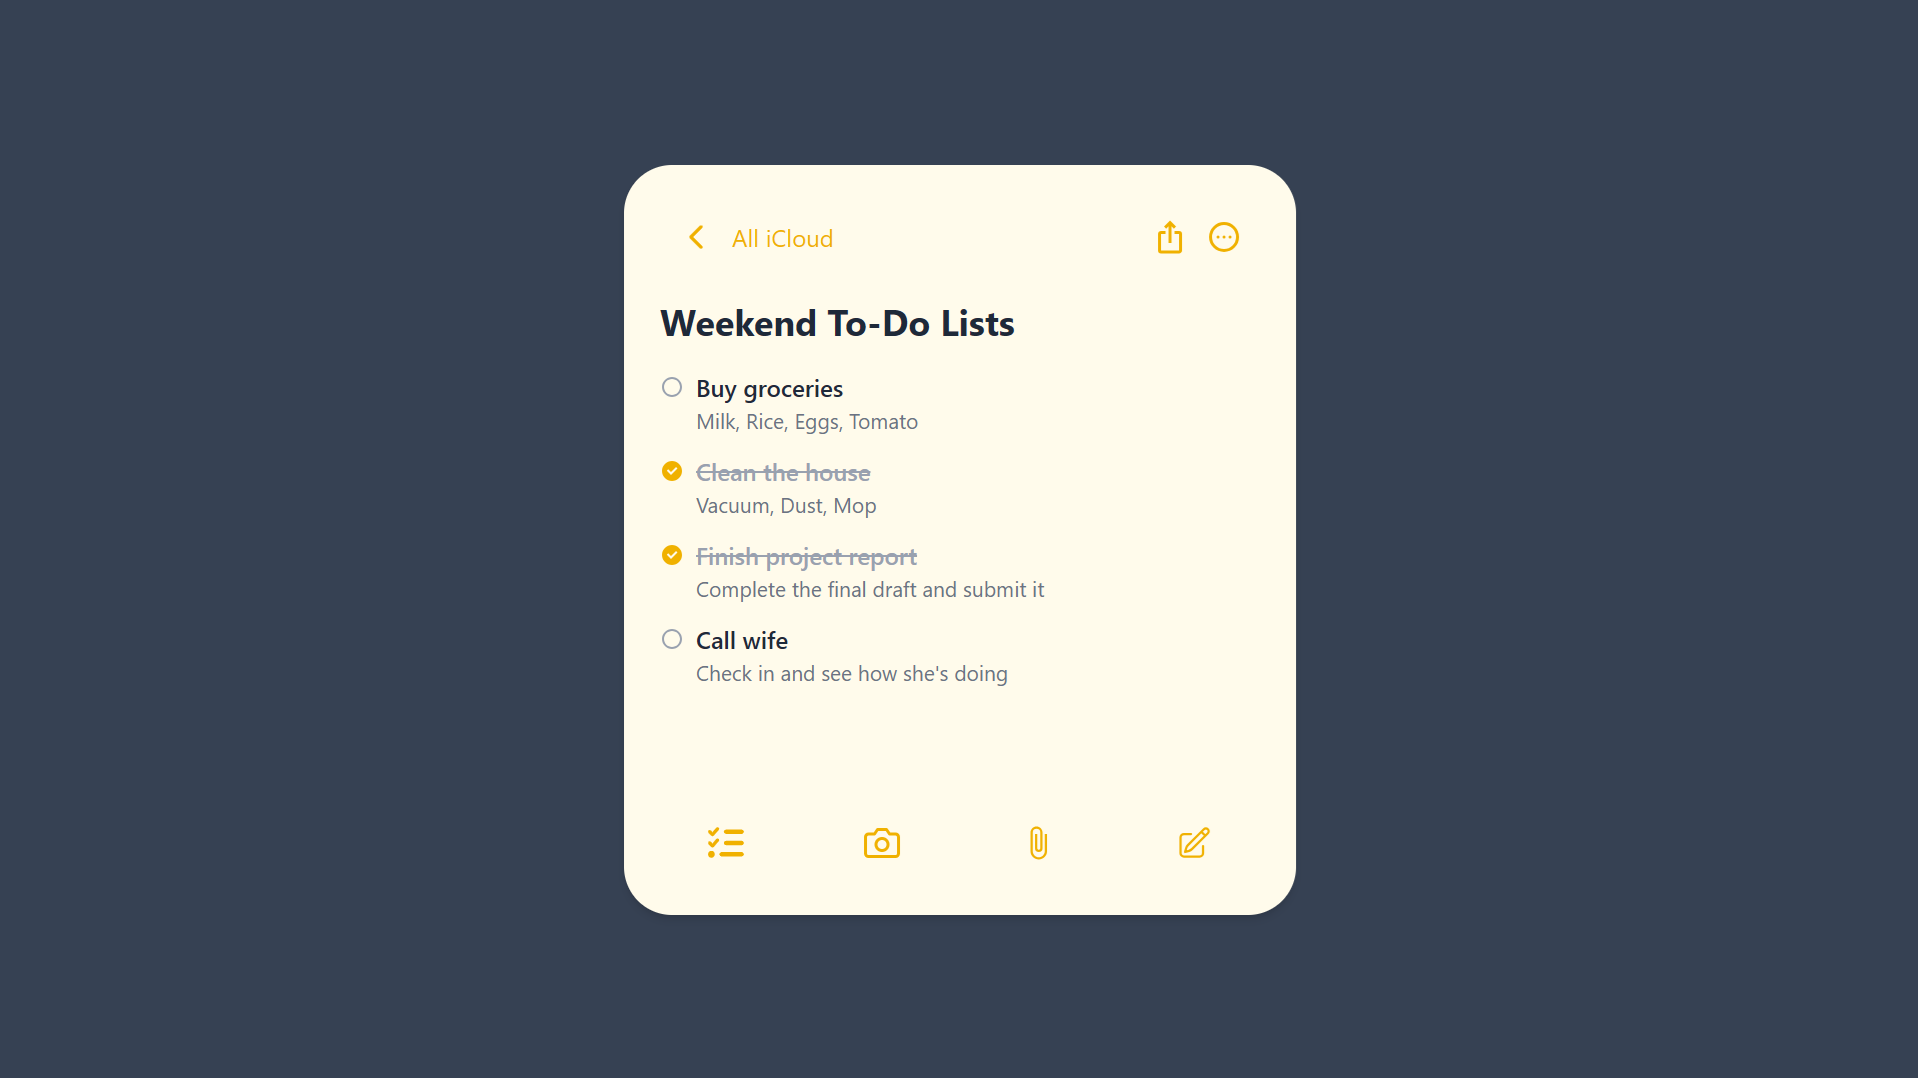
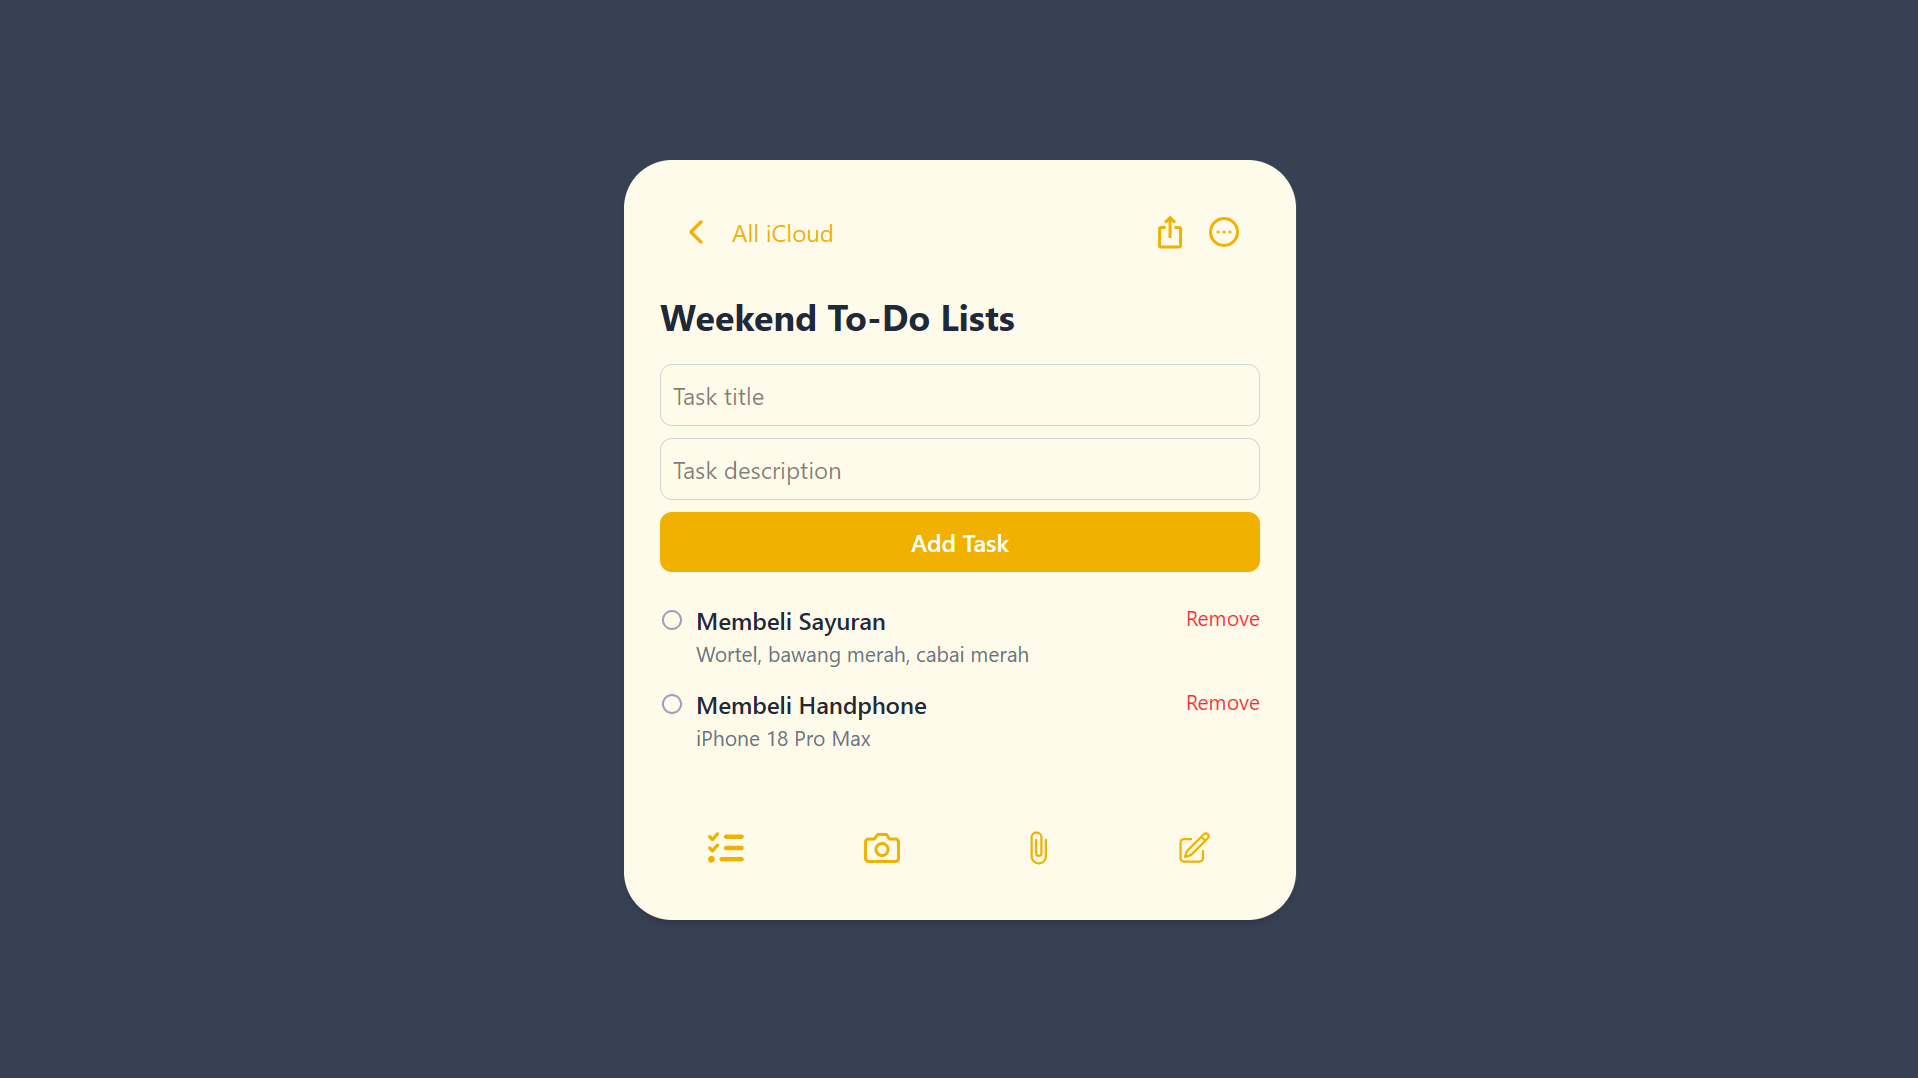
feat: using redux persist

diff --git a/index.html b/index.html
@@ -4,7 +4,7 @@
     <meta charset="UTF-8" />
     <link rel="icon" type="image/svg+xml" href="/favicon.svg" />
     <meta name="viewport" content="width=device-width, initial-scale=1.0" />
-    <title>koda-b10-react6</title>
+    <title>koda-b10-react10</title>
   </head>
   <body>
     <div id="root"></div>
